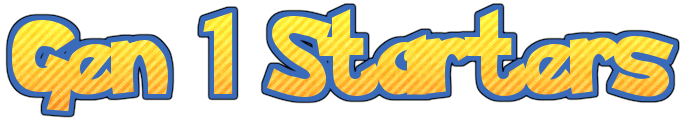
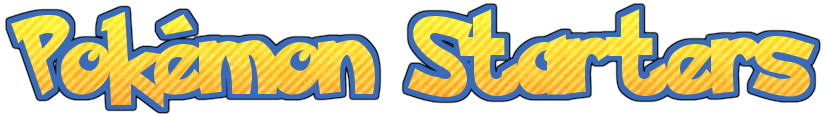
Second commit

diff --git a/script.js b/script.js
@@ -3,25 +3,62 @@
 let jsonStuff = [
   {
     "name" : "Bulbasaur",
-    "picture_url" : "https://i.imgur.com/XClnjrj.png",
+    "picture_url" : "data/Bulbasaur.png",
     "type" : "Grass, Poison",
     "info" : ["Seed Pokemon", "2\' 04\"", "15.2 lbs"]
   },
   {
     "name" : "Charmander",
-    "picture_url" : "https://i.imgur.com/qERNY4r.png",
+    "picture_url" : "data/Charmander.png",
     "type" : "Fire",
     "info" : ["Lizard Pokemon", "2\' 00\"", "18.7 lbs"]
   },
   {
     "name" : "Squirtle",
-    "picture_url" : "https://i.imgur.com/MUfu0wH.png",
+    "picture_url" : "data/Squirtle.png",
     "type" : "Water",
     "info" : ["Tiny Turtle Pokemon", "1\' 08\"", "19.8 lbs"]
+  },
+  {
+    "name" : "Chikorita",
+    "picture_url" : "data/Chikorita.png",
+    "type" : "Grass",
+    "info" : ["Leaf Pokemon", "2\' 11\"", "14.1 lbs"]
+  },
+  {
+    "name" : "Cyndaquil",
+    "picture_url" : "data/Cyndaquil.png",
+    "type" : "Fire",
+    "info" : ["Fire Mouse Pokemon", "1\' 08\"", "17.4 lbs"]
+  },
+  {
+    "name" : "Totodile",
+    "picture_url" : "data/Totodile.png",
+    "type" : "Water",
+    "info" : ["Big Jaw Pokemon", "2\' 00\"", "20.9 lbs"]
+  },
+  {
+    "name" : "Treecko",
+    "picture_url" : "data/Treecko.png",
+    "type" : "Grass",
+    "info" : ["Wood Gecko Pokemon", "1\' 08\"", "11.0 lbs"]
+  },
+  {
+    "name" : "Torchic",
+    "picture_url" : "data/Torchic.png",
+    "type" : "Fire",
+    "info" : ["Chick Pokemon", "1\' 04\"", "5.5 lbs"]
+  },
+  {
+    "name" : "Mudkip",
+    "picture_url" : "data/Mudkip.png",
+    "type" : "Water",
+    "info" : ["Mud Fish Pokemon", "1\' 04\"", "16.8 lbs"]
   }
+
 ]
 
-printAllToPage();
+printAllToPage(); //This is all that runs
 
 
 function printAllToPage() {

diff --git a/style.css b/style.css
@@ -18,8 +18,25 @@ body {
   grid-template-columns: repeat(3, 1fr);
   /* grid-auto-rows: 500px; */
   grid-column-gap: 5vmin;
-  grid-row-gap: 1vmin;
+  grid-row-gap: 5vmin;
   padding: 5vmin;
   font-size: 1.5rem;
   font-family: 'Poppins', sans-serif;
 }
+
+
+.footer {
+  display: flex;
+  flex-direction: column;
+  align-items: center;
+  background-color: black;
+}
+
+.footer > img {
+  width: 50vmin;
+}
+
+
+Two things should try: -Use console log to see if it knows which one it clicks
+im.id
+if yes then See if possible to add in the function a change in height style with the proper id.  (Possible error was that all of them trigger last one)

diff --git a/index.html b/index.html
@@ -2,7 +2,7 @@
 <html lang="en" dir="ltr">
   <head>
     <meta charset="utf-8">
-    <title>JSON PARK</title>
+    <title>Pokemon Starters</title>
     <link href="https://fonts.googleapis.com/css2?family=Poppins&display=swap" rel="stylesheet">
     <link rel="stylesheet" href="style.css">
   </head>
@@ -10,11 +10,15 @@
 
 
     <div class="header">
-      <img src="data/sign.png"> 
+      <img src="data/sign.png">
     </div>
 
      <div id="contentGrid"></div>
 
+     <div class="footer">
+       <img src="data/logo.png">
+       <img src="data/logo2.png">
+     </div>
 
     <script src="script.js"></script>
   </body>
